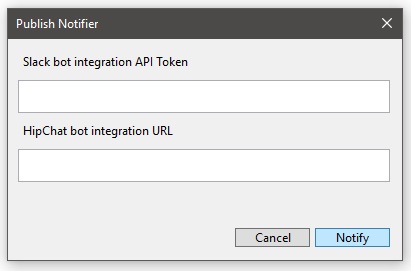
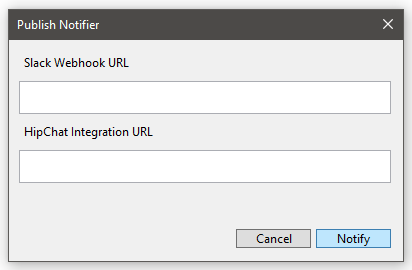
Replace SlackAPI with Slack.Webhooks

Changed region(s): [[0.0, 0.0296, 0.9927, 0.9778], [0.5547, 0.8296, 0.9635, 0.9185], [0.0584, 0.2074, 0.4672, 0.2667]]

diff --git a/PublishNotifier/Dialogs/PublishNotifierDialog.xaml b/PublishNotifier/Dialogs/PublishNotifierDialog.xaml
@@ -8,9 +8,9 @@
              mc:Ignorable="d" 
              Height="250" Width="400" Title="Publish Notifier" WindowStartupLocation="CenterScreen" SizeToContent="WidthAndHeight" ResizeMode="NoResize">
     <Grid Height="221" Width="394">
-        <Label x:Name="label" Content="Slack bot integration API Token" HorizontalAlignment="Left" Margin="10,10,0,0" VerticalAlignment="Top"/>
+        <Label x:Name="label" Content="Slack Webhook URL" HorizontalAlignment="Left" Margin="10,10,0,0" VerticalAlignment="Top"/>
         <TextBox x:Name="txtSlack" HorizontalAlignment="Left" Height="33" Margin="10,41,0,0" TextWrapping="Wrap" Text="" VerticalAlignment="Top" Width="372" />
-        <Label x:Name="label1" Content="HipChat bot integration URL" HorizontalAlignment="Left" Margin="10,79,0,0" VerticalAlignment="Top"/>
+        <Label x:Name="label1" Content="HipChat Integration URL" HorizontalAlignment="Left" Margin="10,79,0,0" VerticalAlignment="Top"/>
         <TextBox x:Name="txtHipChat" HorizontalAlignment="Left" Height="33" Margin="10,110,0,0" TextWrapping="Wrap" Text="" VerticalAlignment="Top" Width="372"/>
         <Button x:Name="btnNotify" Content="Notify" HorizontalAlignment="Left" Margin="307,189,0,0" VerticalAlignment="Top" Width="75" Click="btnNotify_Click"/>
         <Button x:Name="btnCancel" Content="Cancel" HorizontalAlignment="Left" Margin="227,189,0,0" VerticalAlignment="Top" Width="75" Click="btnCancel_Click"/>

diff --git a/PublishNotifier/Services/SlackService.cs b/PublishNotifier/Services/SlackService.cs
@@ -1,32 +1,19 @@
-using SlackAPI;
+using Slack.Webhooks;
 using System;
-using System.Linq;
 
 namespace PublishNotifier
 {
     public class SlackService : IDisposable
     {
-        private SlackClient _sc;
-        private string visualStudioPublishIconUrl = "";
-
-        public SlackService(string slackBotIntegrationApiToken, string projectName)
+        public SlackService(string slackWebhookUrl, string projectName)
         {
-            _sc = new SlackClient(slackBotIntegrationApiToken);
-            _sc.Connect((connected) => {
-                //This is called once the client has emitted the RTM start command
-                HandleConnected(connected, projectName);
-            }, () => {
-                //This is called once the RTM client has connected to the end point
-            });
-        }
-
-        private void HandleConnected(LoginResponse loginResponse, string projectName)
-        {
-            var channels = _sc.Channels.Where(s => s.is_member).ToList();
-            for (int i = 0; i < channels.Count(); i++)
+            var slackClient = new SlackClient(slackWebhookUrl);
+            var slackMessage = new SlackMessage
             {
-                _sc.PostMessage(null, channels[i].id, $"{projectName} was just published!", loginResponse.self.name);//, null, false, null, false, visualStudioPublishIconUrl);
-            }
+                Text = $"{projectName} was just published!",
+                Username = "PublishNotifier"
+            };
+            slackClient.Post(slackMessage);
         }
 
         public void Dispose()

diff --git a/PublishNotifier/VSPackage.cs b/PublishNotifier/VSPackage.cs
@@ -57,16 +57,16 @@ namespace PublishNotifier
                 {
                     configurationService.SaveConfiguration(publishedProjectService.GetConfigurationFileFullPath(), publishNotifierDialog.configurationModel);
 
-                    if (!string.IsNullOrEmpty(publishNotifierDialog.configurationModel.slackBotIntegrationApiToken))
+                    if (!string.IsNullOrEmpty(publishNotifierDialog.configurationModel.slackWebhookUrl))
                     {
-                        using (var slackService = new SlackService(publishNotifierDialog.configurationModel.slackBotIntegrationApiToken, publishedProjectService.GetProjectName()))
+                        using (var slackService = new SlackService(publishNotifierDialog.configurationModel.slackWebhookUrl, publishedProjectService.GetProjectName()))
                         {
                         }
                     }
 
-                    if (!string.IsNullOrEmpty(publishNotifierDialog.configurationModel.hipChatBotIntegrationUrl))
+                    if (!string.IsNullOrEmpty(publishNotifierDialog.configurationModel.hipChatIntegrationUrl))
                     {
-                        using (var hipChatService = new HipChatService(publishNotifierDialog.configurationModel.hipChatBotIntegrationUrl, publishedProjectService.GetProjectName()))
+                        using (var hipChatService = new HipChatService(publishNotifierDialog.configurationModel.hipChatIntegrationUrl, publishedProjectService.GetProjectName()))
                         {
                         }
                     }

diff --git a/PublishNotifier/Dialogs/PublishNotifierDialog.xaml.cs b/PublishNotifier/Dialogs/PublishNotifierDialog.xaml.cs
@@ -15,15 +15,15 @@ namespace PublishNotifier
         {
             InitializeComponent();
             configurationModel = _configurationModel;
-            txtSlack.Text = configurationModel?.slackBotIntegrationApiToken;
-            txtHipChat.Text = configurationModel?.hipChatBotIntegrationUrl;
+            txtSlack.Text = configurationModel?.slackWebhookUrl;
+            txtHipChat.Text = configurationModel?.hipChatIntegrationUrl;
         }
 
         private void btnNotify_Click(object sender, RoutedEventArgs e)
         {
             isNotify = true;
-            configurationModel.slackBotIntegrationApiToken = txtSlack.Text;
-            configurationModel.hipChatBotIntegrationUrl = txtHipChat.Text;
+            configurationModel.slackWebhookUrl = txtSlack.Text;
+            configurationModel.hipChatIntegrationUrl = txtHipChat.Text;
             Close();
         }
 

diff --git a/PublishNotifier/Services/HipChatService.cs b/PublishNotifier/Services/HipChatService.cs
@@ -10,11 +10,11 @@ namespace PublishNotifier
         private const string regexAuthToken = @"^.+?auth_token=(.*)$";
         private const string regexRoom = @"^.+?room\/(.*)\/.+?$";
 
-        public HipChatService(string hipChatBotIntegrationUrl, string projectName)
+        public HipChatService(string hipChatIntegrationUrl, string projectName)
         {
-            var hipChat = new HipChatClient(new ApiConnection(new Credentials(GetAuthToken(hipChatBotIntegrationUrl))));
+            var hipChat = new HipChatClient(new ApiConnection(new Credentials(GetAuthToken(hipChatIntegrationUrl))));
             hipChat.Rooms.SendNotificationAsync(
-                GetRoomName(hipChatBotIntegrationUrl),
+                GetRoomName(hipChatIntegrationUrl),
                 $"{projectName} was just published!");
         }
 

diff --git a/PublishNotifier/source.extension.cs b/PublishNotifier/source.extension.cs
@@ -11,7 +11,7 @@ namespace PublishNotifier
         public const string Name = "Publish Notifier";
         public const string Description = @"Notify your team in Slack or HipChat when you do a right-click Publish from Visual Studio.";
         public const string Language = "en-US";
-        public const string Version = "1.0";
+        public const string Version = "1.1";
         public const string Author = "Dalibor Mesarić";
         public const string Tags = "slack, hipchat, publish, notification";
     }

diff --git a/PublishNotifier/Services/ConfigurationService.cs b/PublishNotifier/Services/ConfigurationService.cs
@@ -72,8 +72,8 @@ namespace PublishNotifier
         {
             return new ConfigurationModel()
             {
-                slackBotIntegrationApiToken = string.Empty,
-                hipChatBotIntegrationUrl = string.Empty
+                slackWebhookUrl = string.Empty,
+                hipChatIntegrationUrl = string.Empty
             };
         }
 

diff --git a/PublishNotifier/Models/ConfigurationModel.cs b/PublishNotifier/Models/ConfigurationModel.cs
@@ -2,7 +2,7 @@
 {
     public class ConfigurationModel
     {
-        public string slackBotIntegrationApiToken { get; set; }
-        public string hipChatBotIntegrationUrl { get; set; }
+        public string slackWebhookUrl { get; set; }
+        public string hipChatIntegrationUrl { get; set; }
     }
 }

diff --git a/README.md b/README.md
@@ -15,20 +15,21 @@ See the [change log](CHANGELOG.md) for changes and road map.
 ## Features
 
 - Visual Studio Publish posts notification in Slack and/or HipChat
+- The configuration is saved in PublishNotifier.json so you commit it to source control
 
 ![Publish](./docs/publish.png)
 
 ![Publish](./docs/config.png)
 
 ### Slack
-To enable Slack notifications you have to add a [custom integration](https://slack.com/apps/build/custom-integration) and choose *Bots*. Create a new bot with a name *PublishNotifier*, and copy the API token to the Publish Notifer dialog that shows up after you Publish an application. You also have to add the bot to the channels where you would like to see notifications.
+To enable Slack notifications you have to add a [custom integration](https://slack.com/apps/build/custom-integration) and choose *Incoming WebHooks*. Then choose a Channel where you would like to see notifications and click *Add Incoming WebHooks integration*. Copy the Webhook URL to the Publish Notifer dialog that shows up after you Publish an application.
 
 ![Publish](./docs/slack_api_token.png)
 
 ![Publish](./docs/slack_notification.png)
 
 ### HipChat
-To enable HipChat notifications you have to add an [integration](https://hipchat.com/addons/) and room where you would like to see notifications. Create a new integration with a name *PublishNotifier*, and copy the URL for posting messages to the Publish Notifer dialog that shows up after you Publish an application.
+To enable HipChat notifications you have to add an [integration](https://hipchat.com/addons/) and select a room where you would like to see notifications. Create a new integration with a name *PublishNotifier*, and copy the URL for posting messages to the Publish Notifer dialog that shows up after you Publish an application.
 
 ![Publish](./docs/hipchat_api_token.png)
 

diff --git a/CHANGELOG.md b/CHANGELOG.md
@@ -11,6 +11,10 @@ download in the
 These are the changes to each version that has been released
 on the official Visual Studio extension gallery.
 
+## 1.1
+
+- [x] Change Slack library from [SlackAPI](https://github.com/Inumedia/SlackAPI) to [Slack.Webhooks](https://github.com/nerdfury/Slack.Webhooks)
+
 ## 1.0
 
 - [x] Initial release
